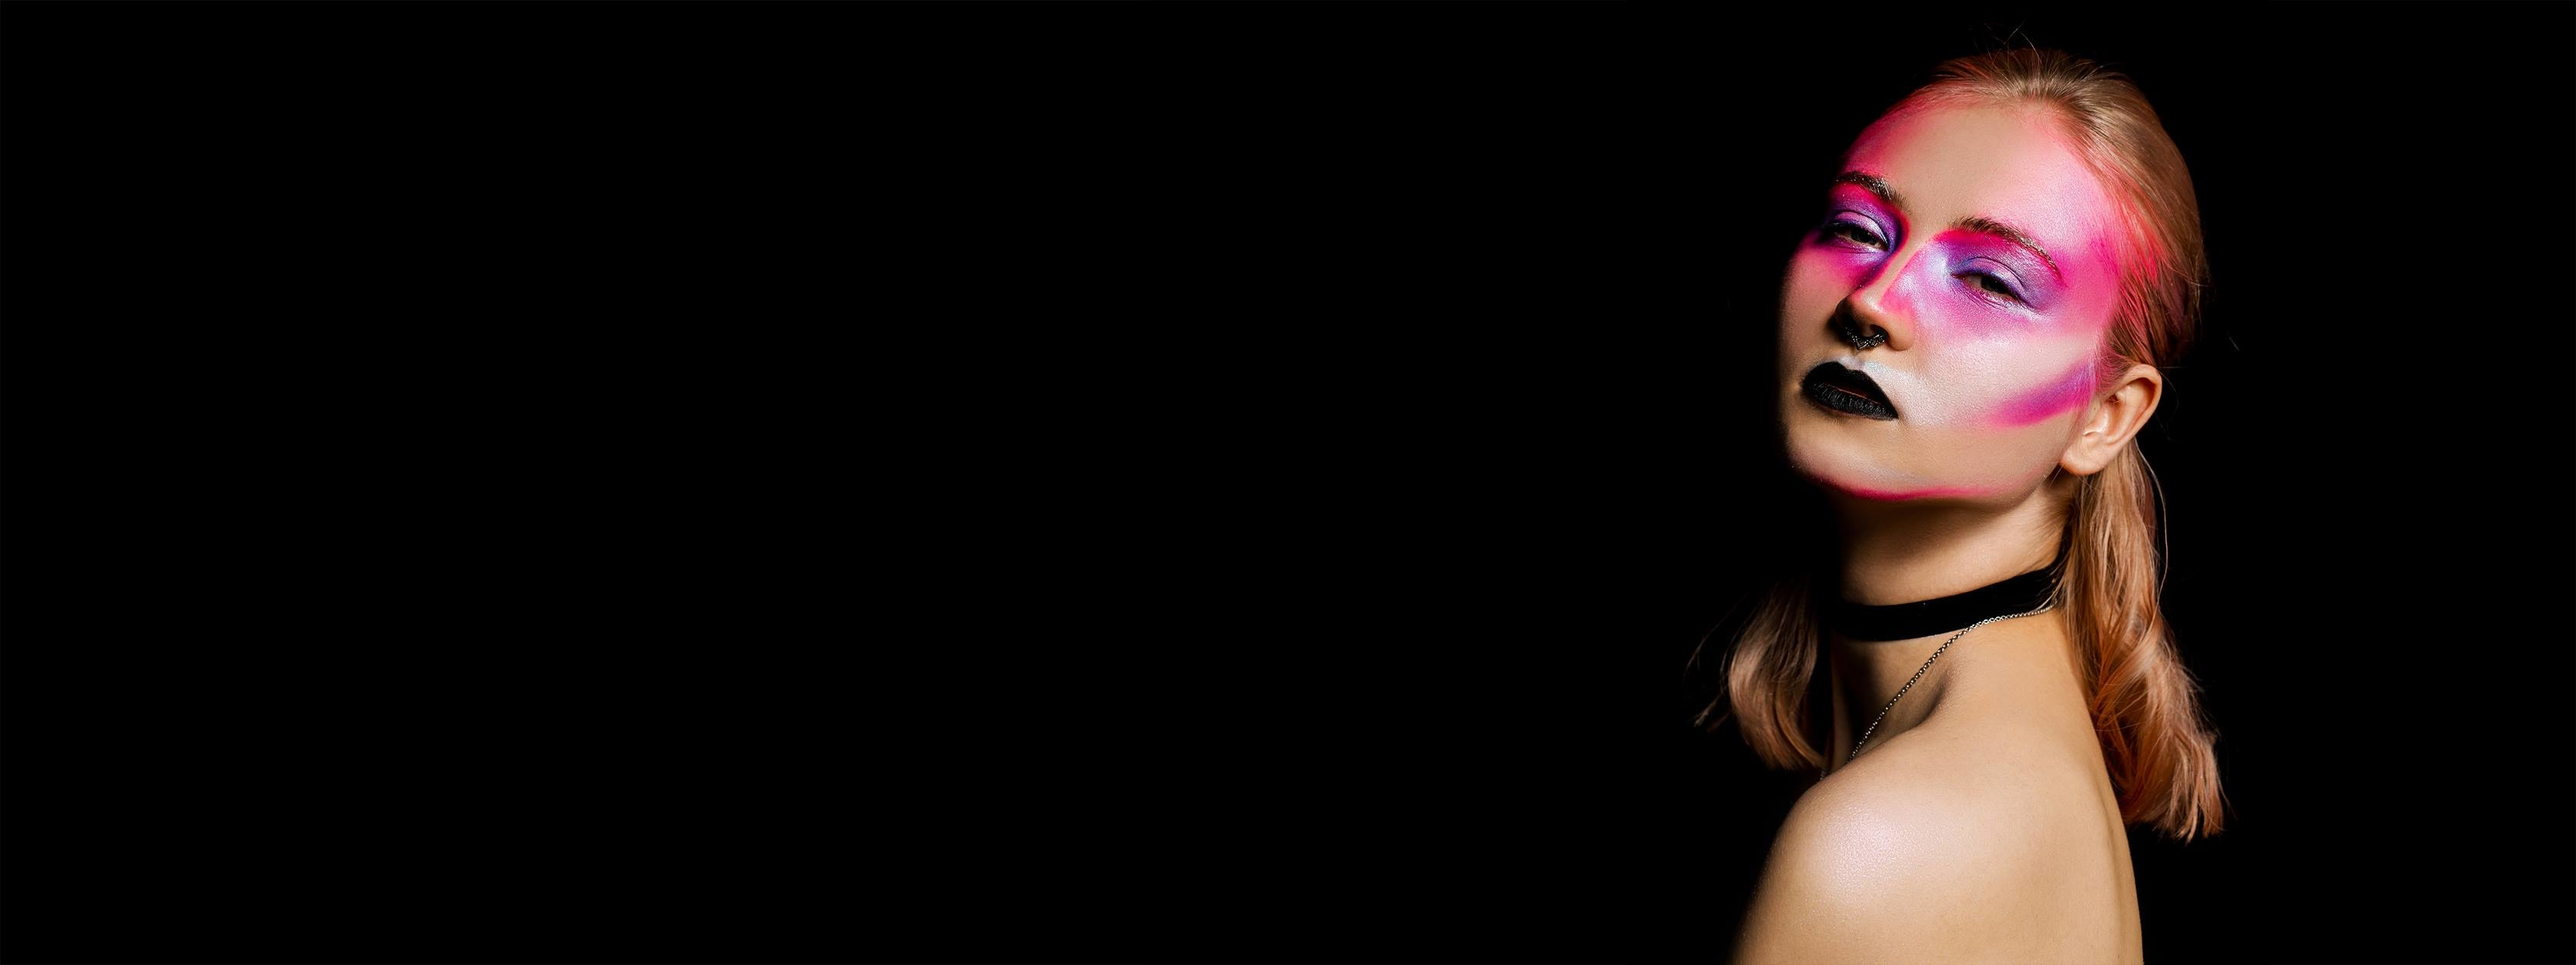
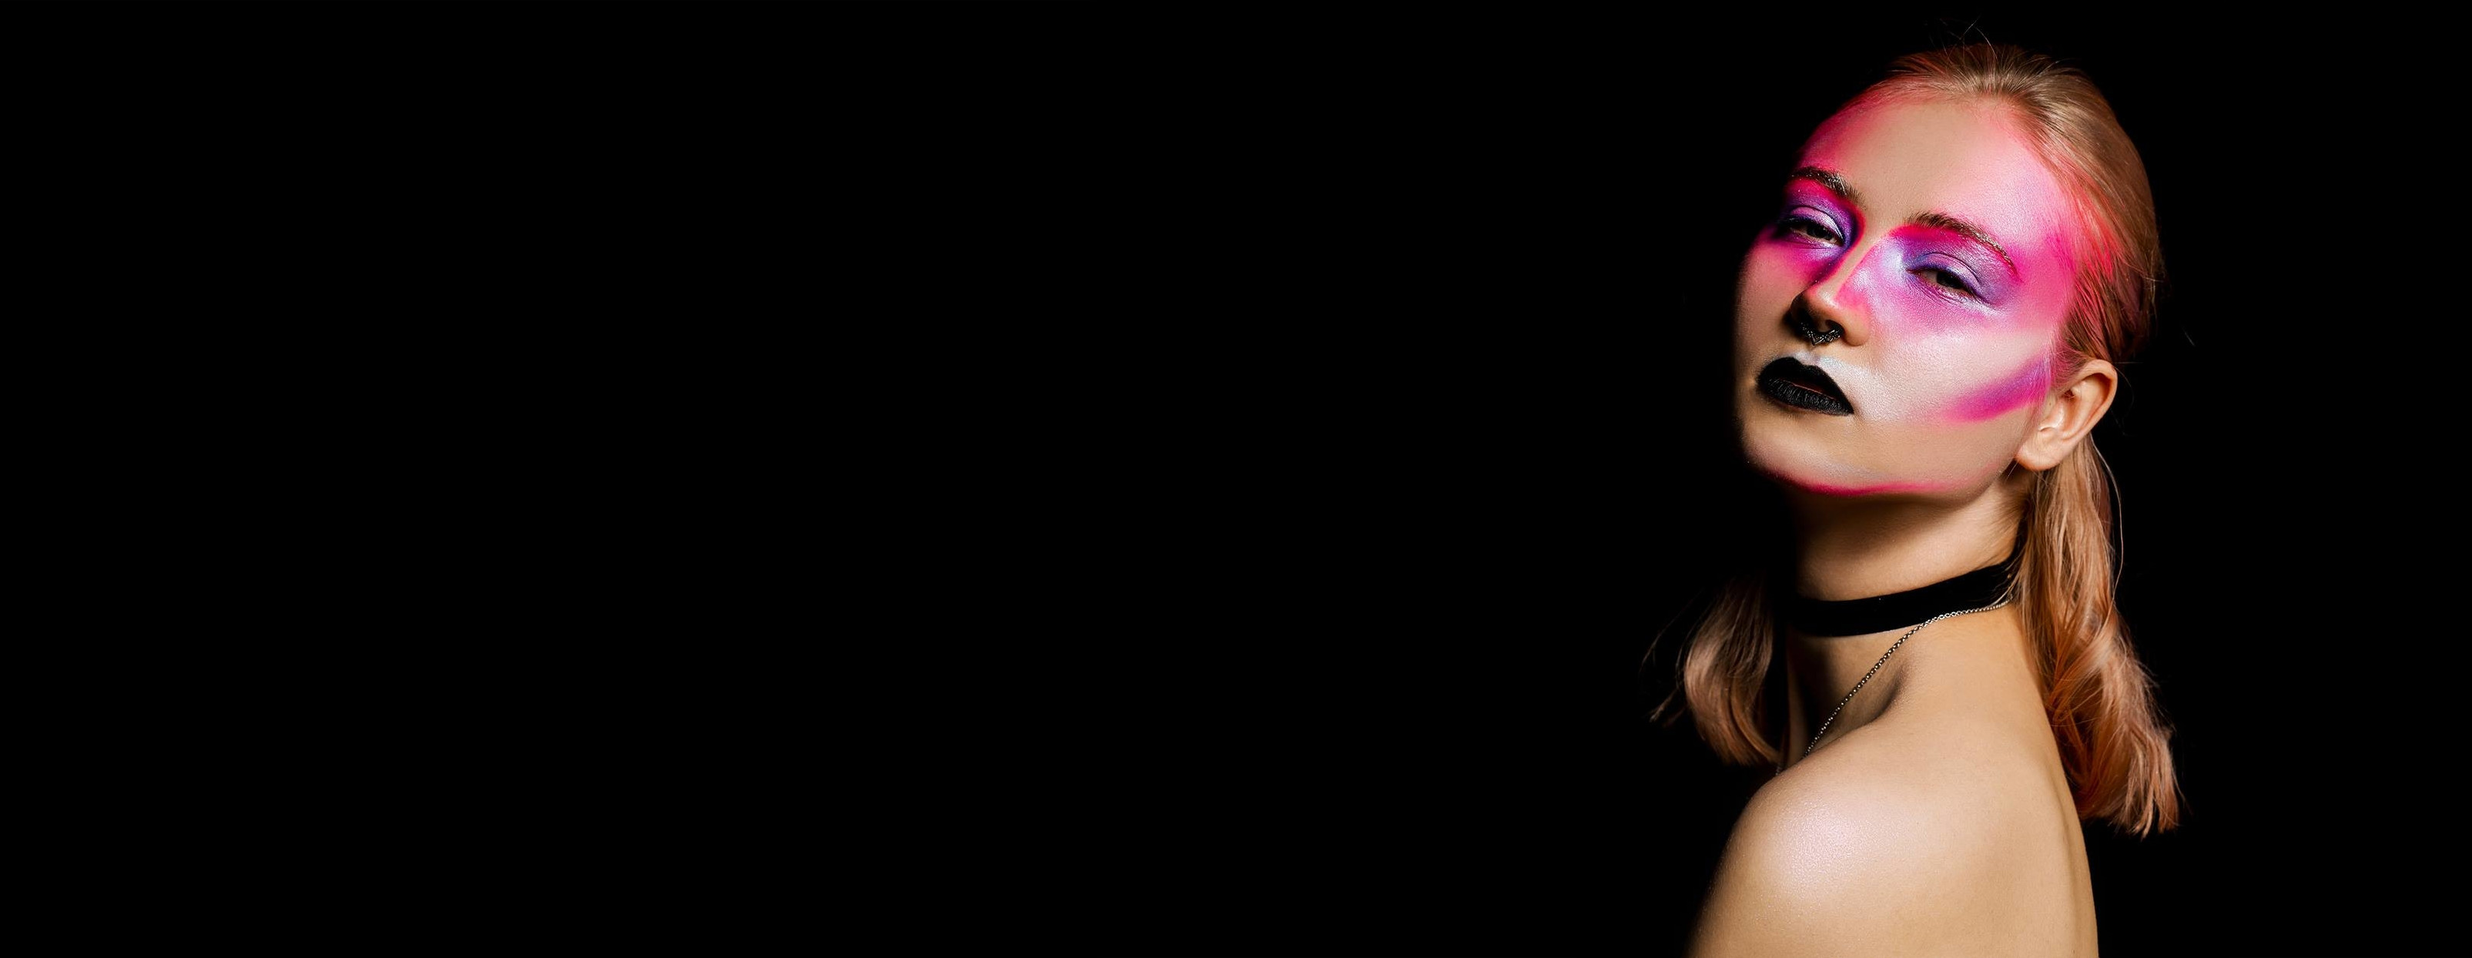
feat: add lazy load next images in Carousel, edit main hero photo

Changed region(s): [[0.6542, 0.0305, 0.9034, 1.0]]

diff --git a/src/components/carousel/Carousel.tsx b/src/components/carousel/Carousel.tsx
@@ -1,5 +1,11 @@
 import React, { useState } from 'react';
-import SwiperCore, { Navigation, Keyboard, Thumbs, Controller } from 'swiper';
+import SwiperCore, {
+    Navigation,
+    Keyboard,
+    Thumbs,
+    Controller,
+    Lazy,
+} from 'swiper';
 import { Swiper, SwiperSlide } from 'swiper/react';
 import Image, { FluidObject, FixedObject } from 'gatsby-image';
 
@@ -7,6 +13,7 @@ import styles from './carousel.module.scss';
 import 'swiper/swiper.scss';
 import 'swiper/components/controller/controller.scss';
 import 'swiper/components/thumbs/thumbs.scss';
+import 'swiper/components/lazy/lazy.scss';
 
 interface CarouselProps {
     projects: Array<{
@@ -24,7 +31,7 @@ interface CarouselProps {
     }>;
 }
 
-SwiperCore.use([Navigation, Keyboard, Thumbs, Controller]);
+SwiperCore.use([Navigation, Keyboard, Thumbs, Controller, Lazy]);
 
 const Carousel: React.FC<CarouselProps> = ({ projects }) => {
     const [thumbsSwiper, setThumbsSwiper] = useState<null | any>(null);
@@ -47,6 +54,7 @@ const Carousel: React.FC<CarouselProps> = ({ projects }) => {
                 breakpoints={{
                     1024: { slidesPerView: 1, spaceBetween: 30 },
                 }}
+                lazy={{ loadPrevNext: true, loadPrevNextAmount: 3 }}
             >
                 {projects.map(project => {
                     const { title, image } = project.node;
